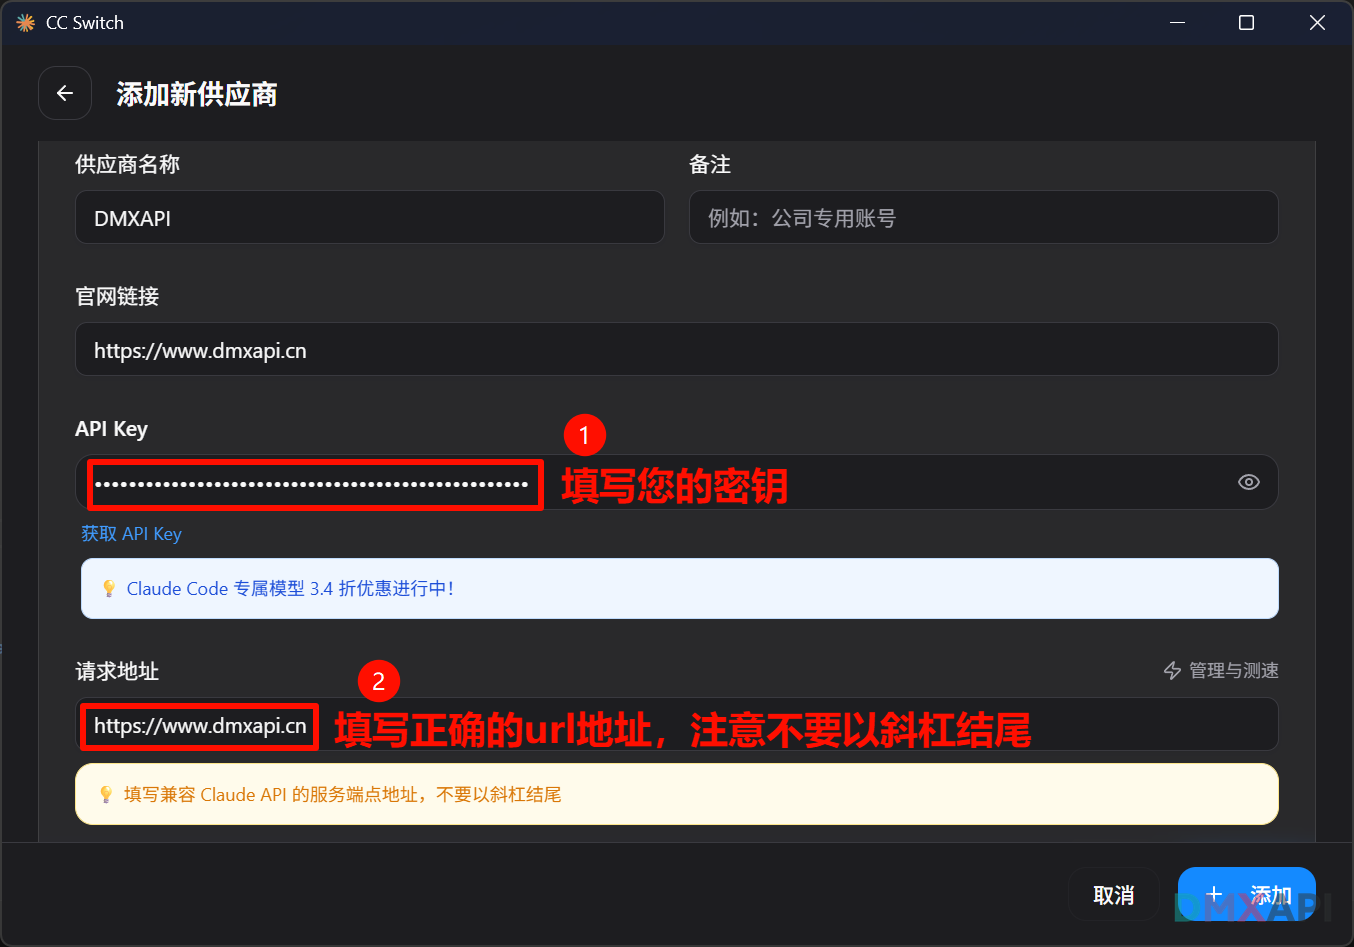
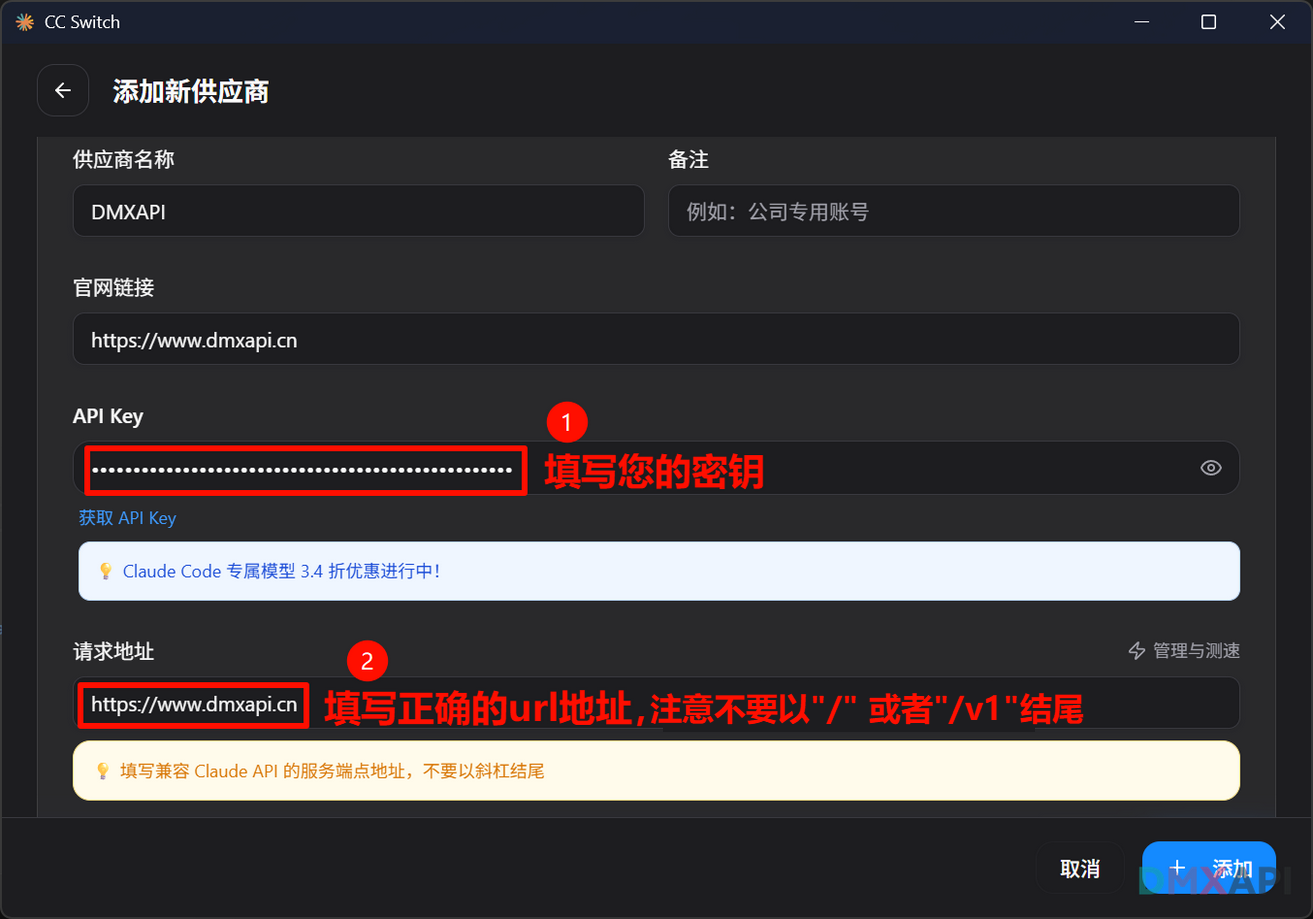
docs: 拆分cc switch配置文档并更新导航

diff --git a/cc_switch_to_claude code.md b/cc_switch_to_claude code.md
@@ -1,0 +1,81 @@
+# CC Switch 配置claude code教程
+CC-Switch 是一款面向企业与开发者的高性能交换与流量调度组件，旨在为数据中心、边缘节点及云环境提供稳定、可扩展的网络转发能力。它支持多端口交换、VLAN 隔离、链路聚合与 QoS 策略，可按业务优先级进行带宽分配与拥塞控制，保障关键应用低时延运行。CC-Switch 兼容主流管理与自动化体系，提供可视化监控、告警与日志追踪，便于快速定位故障并优化网络。通过灵活的策略配置与模块化架构，CC-Switch 能在复杂拓扑中实现高可靠转发与弹性扩容，降低运维成本，提升整体网络效率。
+
+## 环境准备
+在开始之前，请先安装并验证以下基础环境：
+
+- Node.js（含 `npm`），推荐 `v18+`：<https://nodejs.org/>
+- Git（建议 `v2.40+`）：<https://git-scm.com/>
+
+验证安装是否成功：
+
+```bash
+node -v
+npm -v
+git --version
+```
+
+
+## 安装 Claude Code
+
+```bash
+# windows 建议在 管理员权限PowerShell 里使用
+npm install -g @anthropic-ai/claude-code
+# 查看版本 验证安装成功
+claude --version
+```
+
+## 配置 claude code
+
+### 步骤 1：选择 claude，点击 `+` 添加供应商
+
+![cc_switch](./img/ccswitch01.png)
+
+### 步骤 2：选择 DMXAPI 选项卡
+
+![cc_switch](./img/ccswitch02.png)
+
+### 步骤 3：填写 API Key 和 URL
+![cc_switch](./img/ccswitch03.png)
+
+### 步骤 4：配置模型名称
+::: tip
+
+claude code 只能添加模型广场claude code 专区中以-cc结尾的模型，这部分模型我们做了适配。
+[详情点击查看](https://www.dmxapi.cn/rmb)
+
+:::
+![cc_switch](./img/ccswitch04.png)
+
+
+### 步骤 5：启动服务
+
+![cc_switch](./img/ccswitch05.png)
+
+### 步骤 6：在终端中使用 claude code
+
+![cc_switch](./img/ccswitch06.png)
+
+### 步骤 7：测试连接
+
+输入 `你好`，模型返回内容，配置成功！
+
+![cc_switch](./img/ccswitch07.png)
+
+### claude code中切换模型的方法
+
+#### 聊天框里输入 `/model`
+![cc_switch](./img/ccswitch08.png)
+
+#### 选择模型
+![cc_switch](./img/ccswitch09.png)
+
+#### 切换模型后的页面
+![cc_switch](./img/ccswitch10.png)
+
+
+
+
+<p align="center">
+  <small>© 2026 DMXAPI CC Switch配置claude code教程</small>
+</p>
